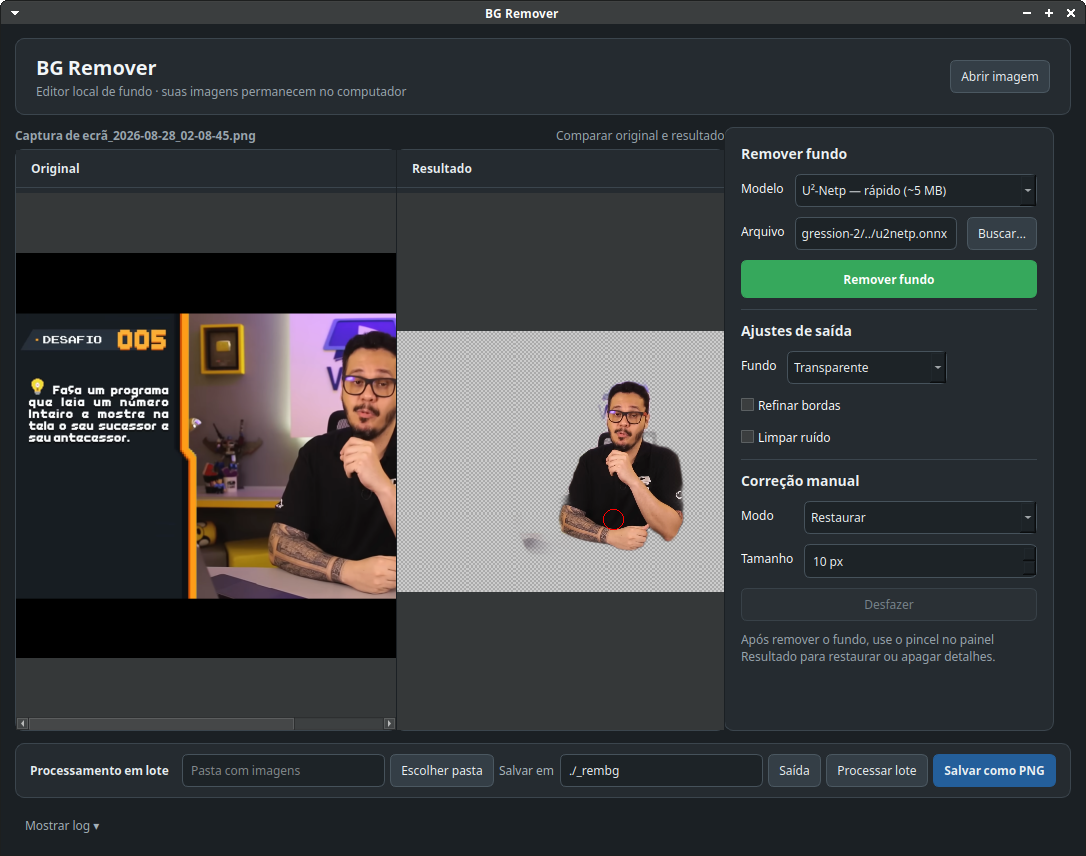
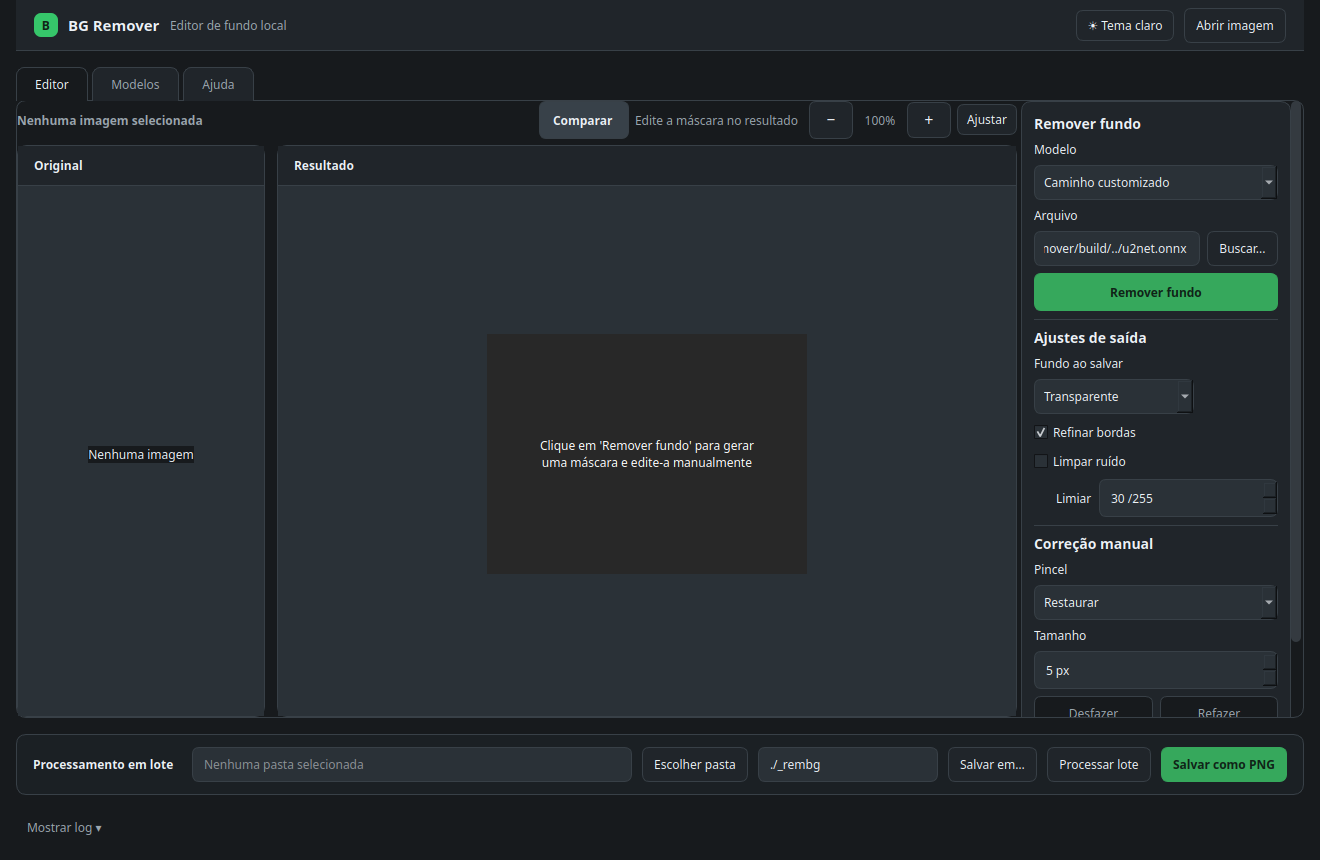
Arrumacao: remover check_m5 e aqtinstall.log, README em PT-BR com secao de Download, screenshot atualizado

diff --git a/README.md b/README.md
@@ -1,44 +1,52 @@
 # BG Remover
 
-Remova fundos de imagens no seu computador — sem contas, créditos ou envio de ficheiros para serviços externos.
+Remova o fundo de imagens no seu computador — sem contas, créditos ou envio de arquivos para serviços externos.
 
-O BG Remover é uma aplicação desktop em C++ e Qt que usa U²-Net através do ONNX Runtime para criar PNGs com transparência, processar pastas inteiras e corrigir detalhes manualmente com pincel.
+O BG Remover é um aplicativo desktop em C++ e Qt que usa U²-Net através do ONNX Runtime para criar PNGs com transparência, processar pastas inteiras e corrigir detalhes manualmente com pincel.
 
+![Interface do BG Remover](docs/images/bg-remover-interface.png)
 
-## Porquê usar?
+## Download pronto (sem compilar)
+
+A página de [**Releases**](https://github.com/MarielCarlosFrias/bg-remover/releases) tem pacotes gerados automaticamente pelo CI, com verificação de checksums:
+
+- **Windows x64:** ZIP portátil — extraia e execute `bg_remover_gui.exe` (Qt, ONNX Runtime e o modelo leve já incluídos).
+- **Debian/Ubuntu:** pacote `.deb` (depende de `libqt6widgets6`).
+
+## Por que usar?
 
 - **Privado por definição:** a imagem e a inferência ficam na sua máquina.
 - **Pronto para trabalhar:** abra uma imagem, remova o fundo, ajuste o que for preciso e exporte em PNG.
 - **Preciso onde importa:** amplie a pré-visualização e use o pincel para restaurar cabelo, roupa ou contornos, ou apagar resíduos.
-- **Feito para volume:** processe uma pasta inteira pela interface ou pela linha de comandos.
-- **Sem dependência de GPU:** funciona em CPU, inclusive em máquinas sem placa gráfica dedicada.
+- **Feito para volume:** processe uma pasta inteira pela interface ou pela linha de comando.
+- **Sem dependência de GPU:** funciona em CPU, inclusive em máquinas sem placa de vídeo dedicada.
 
 ## Funcionalidades
 
 - Remoção de fundo com **U²-Netp**, **U²-Net**, **Silueta**, **ISNet** e outros — instale novos modelos pela aba **Modelos**, com download integrado.
 - Inferência numa **thread separada**: a janela nunca bloqueia durante o processamento.
-- Processamento em lote com progresso, log, **botão de cancelar** e nomes de saída sem sobrescrever imagens existentes.
+- Processamento em lote com progresso, log, **botão de cancelar** e nomes de saída que nunca sobrescrevem arquivos existentes.
 - Fundo transparente, branco, preto ou uma cor personalizada.
 - Refinamento de bordas e limpeza de ruído com limiar ajustável.
 - Edição manual da máscara com modos **Restaurar** e **Apagar**.
 - **Desfazer/Refazer multi-nível** (Ctrl+Z / Ctrl+Y) e atalhos de teclado (Ctrl+O, Ctrl+S, Ctrl+±, Ctrl+0).
-- **Arraste e largue** imagens (abre) ou pastas (define o lote) sobre a janela.
-- **Tema escuro e claro** com alternância e persistência; preferências guardadas (pastas, modelo, geometria).
-- Zoom de 50% a 400%, com ajuste automático à janela e rolagem para trabalhar nos detalhes.
+- **Arraste e solte** imagens (abre) ou pastas (define o lote) sobre a janela.
+- **Tema escuro e claro** com alternância e persistência; preferências salvas (pastas, modelo, geometria).
+- Zoom de 50% a 400% **centrado no cursor** (Ctrl + roda do mouse).
 - CLI para automação em scripts (`bg_remover_cli --help`).
 - Pacotes preparados para Debian/Ubuntu e Windows x64.
 
 ## Como funciona
 
 1. A imagem é preparada no formato esperado pelo modelo (320 × 320, RGB normalizado).
-2. O ONNX Runtime executa o modelo localmente e devolve um mapa que separa o objeto principal do fundo.
+2. O ONNX Runtime executa o modelo localmente e retorna um mapa que separa o objeto principal do fundo.
 3. O mapa é redimensionado para a resolução original e aplicado como canal alpha.
 4. Se necessário, a máscara recebe filtros de borda/ruído e pode ser corrigida com o pincel.
 5. O resultado é exportado como PNG transparente ou composto numa cor sólida.
 
 O mesmo pipeline é usado pela interface, pelo lote e pelo CLI, para que os resultados sejam consistentes em todos os fluxos.
 
-## Começar rapidamente
+## Começar rapidamente (compilar do código)
 
 ### Linux (Debian/Ubuntu)
 
@@ -48,7 +56,7 @@ Instale os requisitos de desenvolvimento:
 sudo apt install build-essential cmake qt6-base-dev qt6-base-private-dev
 ```
 
-Compile. O CMake descarrega o ONNX Runtime automaticamente e de forma verificada:
+Compile. O CMake baixa o ONNX Runtime automaticamente e de forma verificada:
 
 ```bash
 cmake -S . -B build -DBG_REMOVER_FETCH_ONNX_RUNTIME=ON
@@ -61,7 +69,7 @@ Baixe o modelo leve na raiz do projeto:
 wget https://github.com/danielgatis/rembg/releases/download/v0.0.0/u2netp.onnx
 ```
 
-Abra a aplicação:
+Abra o aplicativo:
 
 ```bash
 ./build/bg_remover_gui
@@ -83,27 +91,27 @@ cmake --build build --config Release --parallel
 
 ### Interface gráfica
 
-1. Clique em **Abrir imagem**.
+1. Clique em **Abrir imagem** (ou arraste uma imagem para a janela).
 2. Escolha o modelo e clique em **Remover fundo**.
-3. Use `+`, `−` e **Ajustar** para aproximar ou enquadrar a imagem.
-4. Para pequenos erros, escolha **Restaurar** ou **Apagar** e pinte diretamente sobre o resultado.
+3. Use `+`, `−`, **Ajustar** ou Ctrl + roda do mouse para aproximar e enquadrar.
+4. Para pequenos erros, escolha **Restaurar** ou **Apagar** e pinte diretamente sobre o resultado; Ctrl+Z desfaz.
 5. Clique em **Salvar como PNG**.
 
-### Gerir modelos (aba Modelos)
+### Gerenciar modelos (aba Modelos)
 
-Na aba **Modelos**, no topo da janela, escolha um modelo do catálogo e clique em **Descarregar**. Os ficheiros ficam no diretório de dados da aplicação (`~/.local/share/bg-remover/models` no Linux) e passam a aparecer no seletor de modelos da aba Editor e a ser encontrados automaticamente pelo CLI. Modelos maiores (ISNet, U²-Net completo) dão recortes melhores em cabelo e contornos finos; o U²-Netp continua a ser o padrão leve. As descargas usam HTTPS e o modelo leve tem verificação SHA256; qualquer modelo pode ser apagado do disco na mesma aba.
+Na aba **Modelos**, no topo da janela, escolha um modelo do catálogo e clique em **Descarregar**. Os arquivos ficam no diretório de dados do aplicativo (`~/.local/share/bg-remover/models` no Linux) e passam a aparecer no seletor de modelos da aba Editor, além de serem encontrados automaticamente pelo CLI. Modelos maiores (ISNet, U²-Net completo) geram recortes melhores em cabelo e contornos finos; o U²-Netp continua sendo o padrão leve. Os downloads usam HTTPS e os modelos com hash conhecido têm verificação SHA256; qualquer modelo pode ser removido do disco na mesma aba.
 
 ### Processamento em lote
 
-Na barra inferior, escolha a pasta de entrada e a pasta de saída, depois clique em **Processar lote**. As imagens geradas recebem o sufixo `_rembg`; se já existir um ficheiro com esse nome, a aplicação cria uma variação numerada em vez de o substituir.
+Na barra inferior, escolha a pasta de entrada e a pasta de saída, depois clique em **Processar lote** (o botão vira **Cancelar lote** durante a execução). As imagens geradas recebem o sufixo `_rembg`; se já existir um arquivo com esse nome, o aplicativo cria uma variação numerada em vez de sobrescrevê-lo.
 
-### Linha de comandos
+### Linha de comando
 
 ```bash
 ./build/bg_remover_cli <pasta_entrada> [pasta_saida] [modelo.onnx]
 ```
 
-Se não indicar o modelo, a GUI e o CLI procuram `u2netp.onnx` junto do executável, no diretório de instalação e depois no diretório atual.
+Se não indicar o modelo, a GUI e o CLI procuram `u2netp.onnx` junto do executável, no diretório de instalação, nos modelos instalados pela aba Modelos e por fim no diretório atual.
 
 ## Testes
 
@@ -111,7 +119,7 @@ Se não indicar o modelo, a GUI e o CLI procuram `u2netp.onnx` junto do executá
 ctest --test-dir build --output-on-failure
 ```
 
-O projeto inclui testes para pós-processamento e inferência. A integração contínua compila e testa Linux e Windows x64; no Windows, também valida se o ZIP final contém as DLLs e plugins necessários.
+O projeto inclui testes de pós-processamento, do planejamento de lote (BatchPlan) e de inferência. A integração contínua compila e testa Linux e Windows x64; no Windows, também valida se o ZIP final contém as DLLs e plugins necessários.
 
 ## Criar um pacote Linux
 
@@ -133,21 +141,23 @@ bg-remover/
 ├── .github/workflows/        # CI e releases Linux/Windows
 ├── backgroundremover.*       # Inferência ONNX e geração da máscara
 ├── imagepostprocessor.*      # Filtros alpha e composição do fundo
-├── batchprocessor.*          # Processamento de diretórios
-├── mainwindow.*              # Interface Qt
+├── batchprocessor.* + batchplan.h  # Processamento de diretórios (CLI + GUI)
+├── mainwindow.*              # Interface Qt (abas, lote, zoom)
 ├── maskeditcanvas.*          # Pincel e edição da máscara
-├── main_cli.cpp              # Ferramenta de linha de comandos
+├── modelmanager.*            # Aba Modelos: catálogo e download
+├── helpwidget.*              # Aba Ajuda
+├── apptheme.*                # Temas escuro/claro
+├── main.cpp / main_cli.cpp   # Arranque da GUI e do CLI
 └── test_*.cpp                # Testes automatizados
 ```
 
-Os modelos, o runtime extraído, os diretórios de build e os resultados locais não entram no Git. Os releases automatizados obtêm o runtime e o modelo leve, verificam os respetivos checksums e criam os pacotes distribuíveis.
+Os modelos, o runtime extraído, os diretórios de build e os resultados locais não entram no Git. Os releases automatizados obtêm o runtime e o modelo leve, verificam os respectivos checksums e criam os pacotes distribuíveis.
 
 ## Limitações atuais
 
 - U²-Netp privilegia velocidade; cabelo e transparências muito finas podem precisar de correção manual. U²-Net oferece melhor segmentação, mas é substancialmente maior.
-- A edição manual tem um nível de desfazer.
-- A primeira release Windows deve ser testada numa instalação limpa antes de divulgação alargada.
+- O ZIP do Windows é gerado e verificado pelo CI (DLLs e plugins presentes), mas ainda **não foi testado numa instalação limpa do Windows** — se encontrar problemas, abra uma [issue](https://github.com/MarielCarlosFrias/bg-remover/issues).
 
 ## Créditos
 
-Modelos [U²-Net](https://github.com/xuebinqin/U-2-Net) e ficheiros ONNX distribuídos pelo projeto [rembg](https://github.com/danielgatis/rembg).
+Modelos [U²-Net](https://github.com/xuebinqin/U-2-Net) e arquivos ONNX distribuídos pelo projeto [rembg](https://github.com/danielgatis/rembg).
